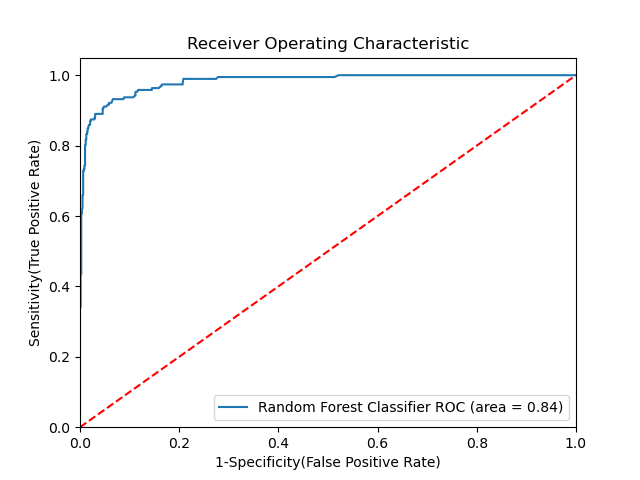
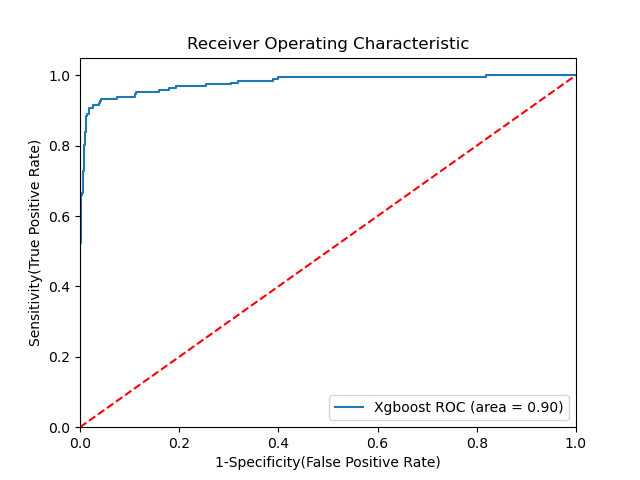
added xgboost algo

diff --git a/README.md b/README.md
@@ -21,36 +21,16 @@ This project predicts whether a customer will purchase a holiday package based o
 
    * Tried multiple models: Logistic Regression, Decision Tree, Random Forest.
    * Evaluated using accuracy, precision, recall.
-   * Selected **Random Forest Classifier** as the final model because it performed the best on validation data.
+   * Selected **XGBoost Classifier** as the final model because it performed the best on validation data.
 4. **Model Saving:** Used `pickle` to serialize the trained model for deployment.
 
-## 🎯 Why Random Forest?
-
-* Outperformed Logistic Regression and Decision Tree on validation accuracy.
-* Handles both numerical and categorical features well.
-* Robust to overfitting and can capture complex patterns in the data.
-* Final model achieved an **accuracy of \~85%** on the test set.
 
 ## 📈 Project Results
 
-* **Accuracy:** \~85% (varies slightly with random state)
+* **Accuracy:** \~86% (varies slightly with random state)
 * Provides consistent and interpretable predictions.
 
-## 🚀 How To Use
 
-* Load `model.pkl`.
-* Provide customer features in the correct order.
-* Get a prediction (1 = Will purchase, 0 = Will not purchase).
-
-## 📁 Repository Structure
-
-```
-📦 Holiday-Package-Purchase-Prediction
- ├── Notebook_and_Model
- │   ├── main_notebook.ipynb
- │   ├── model.pkl
- ├── README.md
-```
 
 ## ✨ Future Improvements
 
